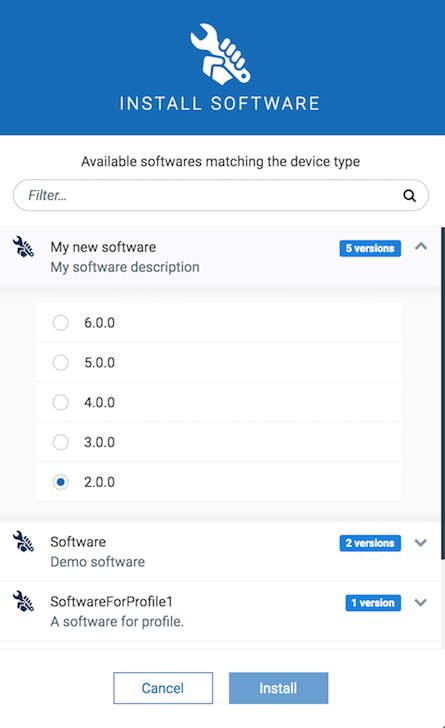
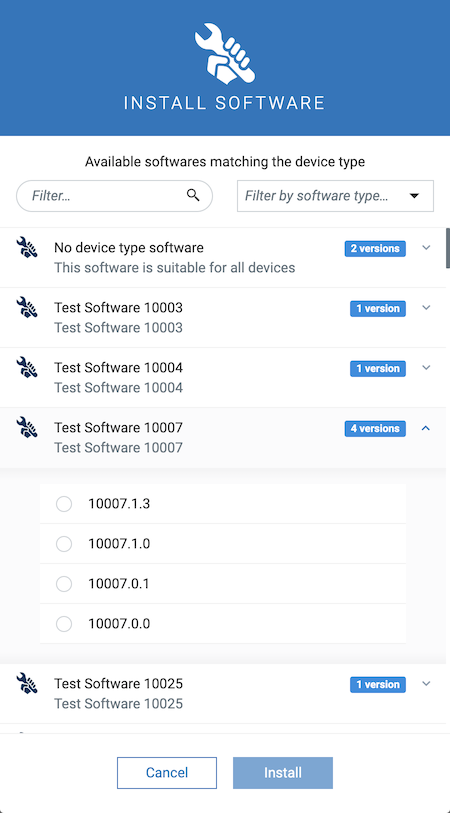
[DM-347] Update "Managing software on a device" section

diff --git a/content/users-guide/device-management-bundle/managing-device-data.md b/content/users-guide/device-management-bundle/managing-device-data.md
@@ -249,7 +249,7 @@ In the **Software** tab of a device you can manage the software for the particul
 
 Click **All devices** in the **Devices** menu in the navigator, select the desired device from the device list and open its **Software** tab.
 
-The **Software** tab shows a list of all available software installed on the device.
+The **Software** tab shows a list of all available software installed on the device. If a given software item has a type, it will be displayed next to its name. You can search for a particular software by its name for filter the list by software type.
 
 ![Software tab](/images/users-guide/DeviceManagement/devmgmt-software-tab.png)
 
@@ -260,7 +260,12 @@ Additionally, it shows the operation status for the last operation (one of SUCCE
 ##### To install software on a device
 
 1. In the **Software** tab, click **Install software**.<br><br>	 ![Install software](/images/users-guide/DeviceManagement/devmgmt-software-install.png)
-2. Select one or multiple software items by selecting the respective version from the list, which contains all software for the particular device type available in the software repository.
+>**Info:** The **Install software** dialog will only display the software entries matching the device type. Additionally, if the device has any `c8y_SupportedSoftwareTypes` declared the dialog will only display the software entries matching the supported software types.
+2. Select one or multiple software items by selecting the respective version from the list, which contains all software for the particular device type available in the software repository.  
+For devices supporting advanced software managements features already installed software entries cannot be pre-filtered from the list of available software entries. Thus, after a particular software version has been selected a check is done if the chosen software is already installed on the device. If this is the case a warning is displayed to the user:
+![Already installed software entry warning](/images/users-guide/DeviceManagement/devmgmt-software-install-warning.png)
+The user can remove the already installed software entry from the **Software changes** panel. However, even if the resulting operation includes an already installed software entry this should not have any effect on the device software.
+![Software changes warning](/images/users-guide/DeviceManagement/devmgmt-software-changes-warning.png)
 4. Click **Install**.
 5. In the **Software changes** panel at the right, review your planned changes and confirm the software update operation by clicking **Apply changes**.<br><br>
 	![Apply changes](/images/users-guide/DeviceManagement/devmgmt-software-changes.png)
